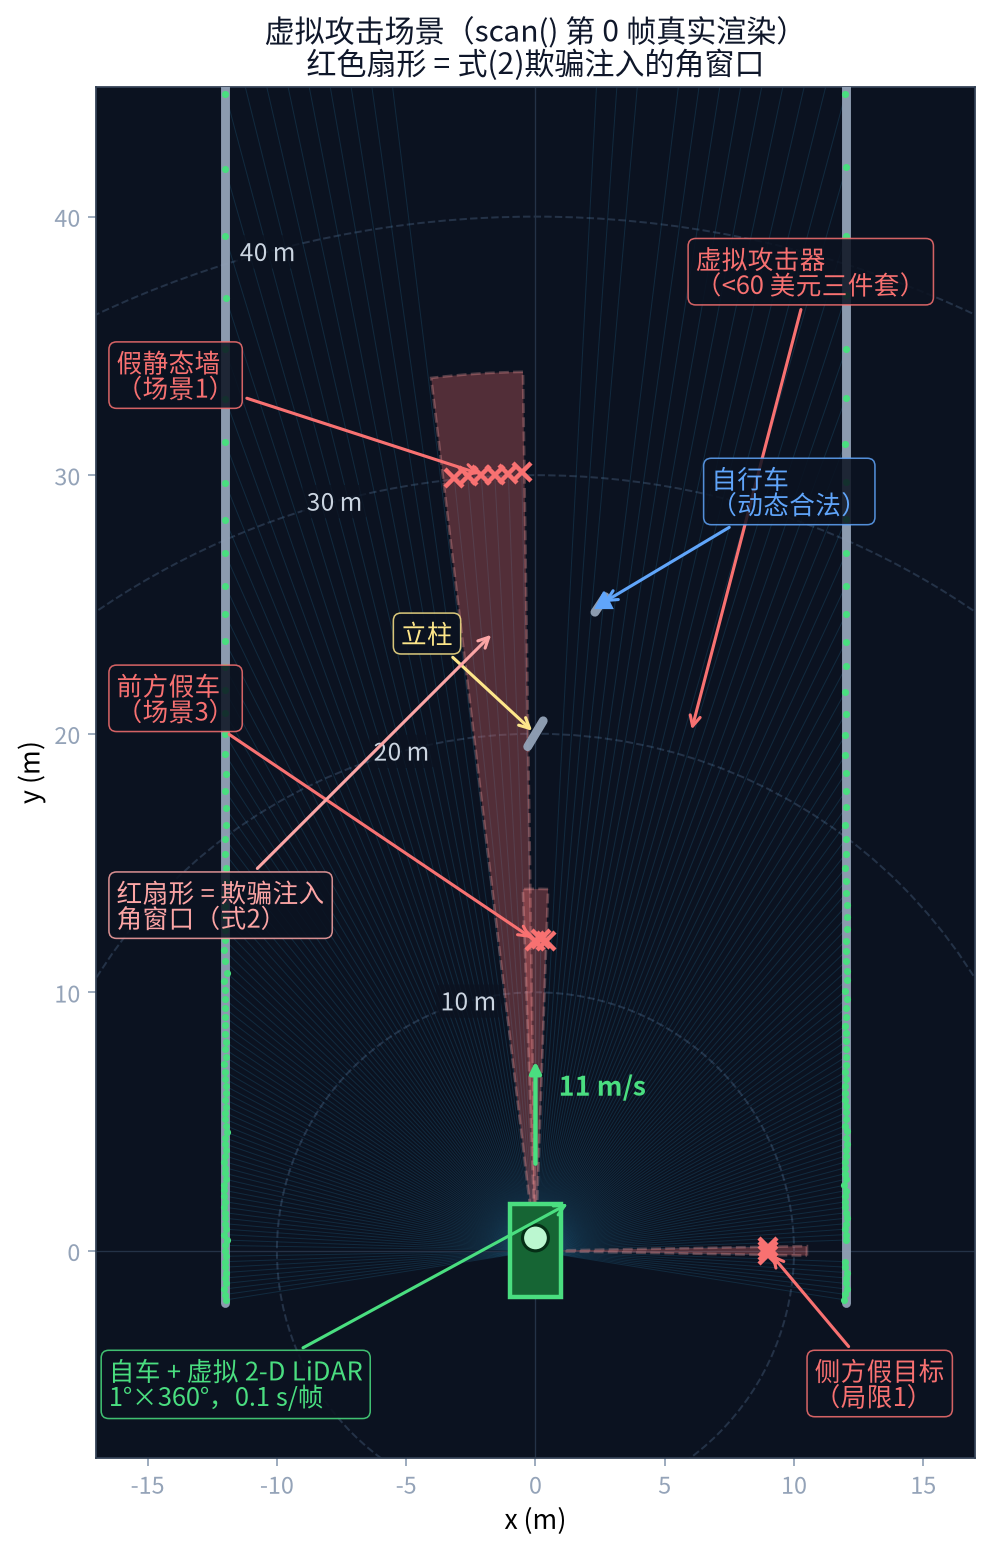
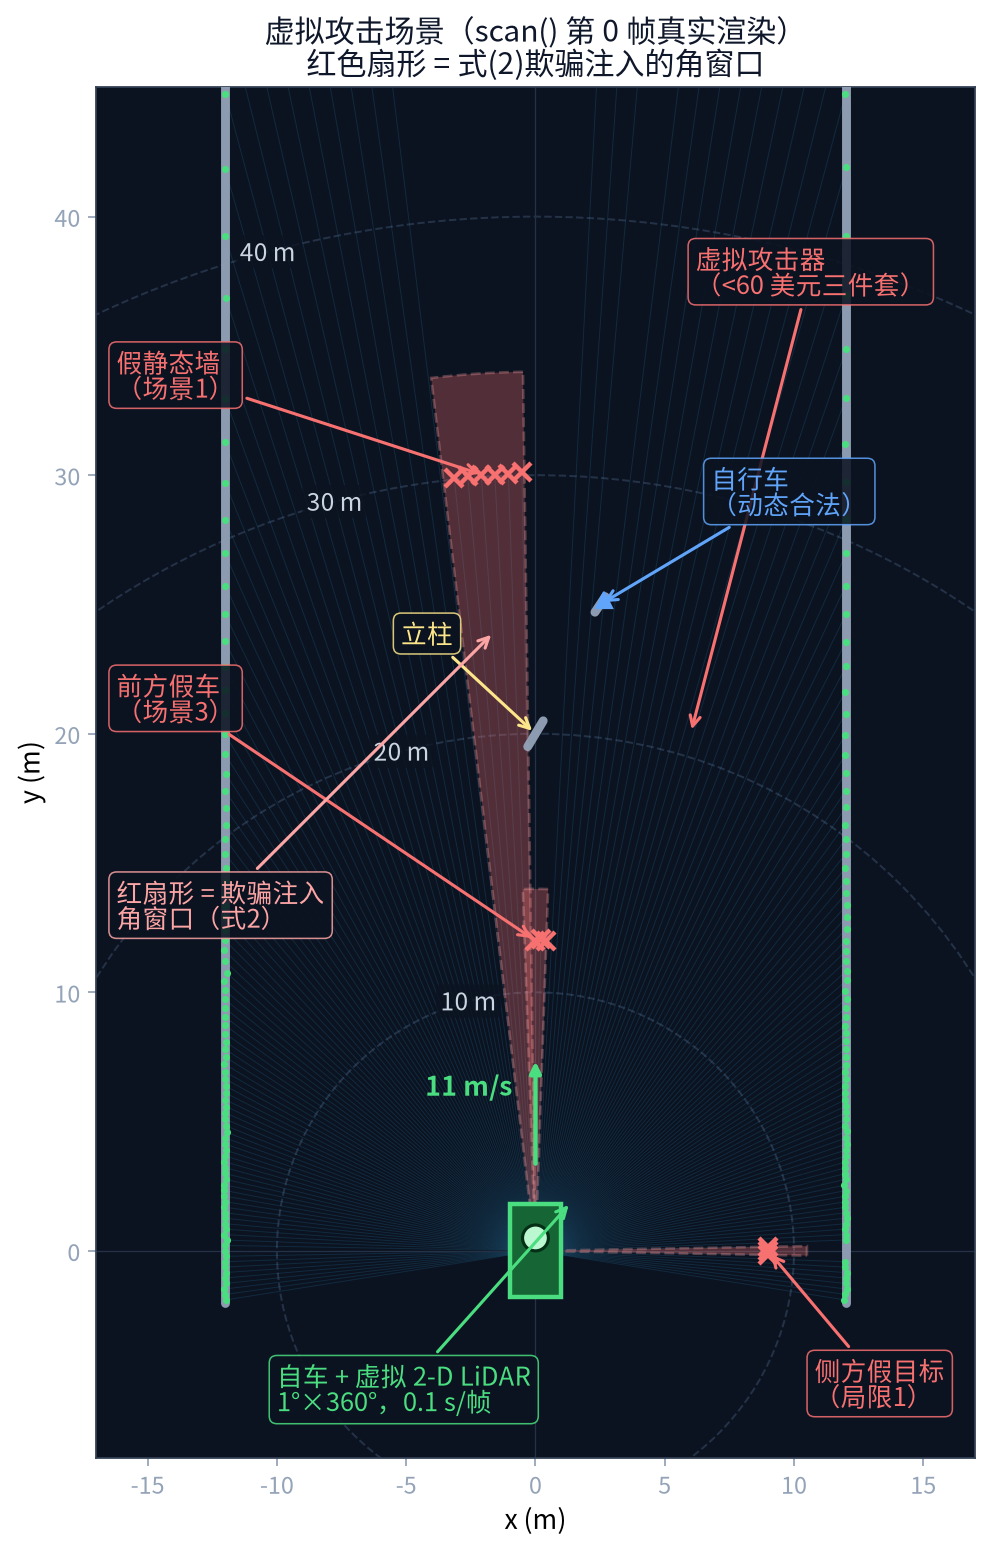
Clean up ego area in attack scene figure
- ego annotation moved closer: leader line no longer crosses half the
  beam fan
- attacker dashed line now stops ~5.5 m in front of the car instead of
  running into the vehicle
- '11 m/s' label moved to the left of the velocity arrow, clear of the
  attacker line

diff --git a/src/hw_mapping.py b/src/hw_mapping.py
@@ -288,8 +288,8 @@ def _draw_virtual_scene(ax_scene):
     _draw_car(ax_scene, 0, 0)
     ax_scene.annotate("", xy=(0, 7.5), xytext=(0, 3.2),
                       arrowprops=dict(arrowstyle="-|>", color="#4ade80", lw=2))
-    ax_scene.text(0.9, 6.0, "11 m/s", fontsize=12, color="#4ade80",
-                  weight="bold", zorder=9)
+    ax_scene.text(-0.9, 6.0, "11 m/s", fontsize=12, color="#4ade80",
+                  weight="bold", ha="right", zorder=9)
 
     # 标注
     def note(text, xy, xytext, color):
@@ -299,7 +299,7 @@ def _draw_virtual_scene(ax_scene):
                           bbox=dict(boxstyle="round,pad=0.3", fc=SC_BG,
                                     ec=color, lw=0.7, alpha=0.85))
 
-    note("自车 + 虚拟 2-D LiDAR\n1°×360°，0.1 s/帧", (1.4, 1.9), (-16.5, -6),
+    note("自车 + 虚拟 2-D LiDAR\n1°×360°，0.1 s/帧", (1.4, 1.9), (-10, -6.2),
          "#4ade80")
     note("虚拟攻击器\n（<60 美元三件套）",
          tuple(attacks["ahead"]["attacker"]), (6.2, 37), "#f87171")
